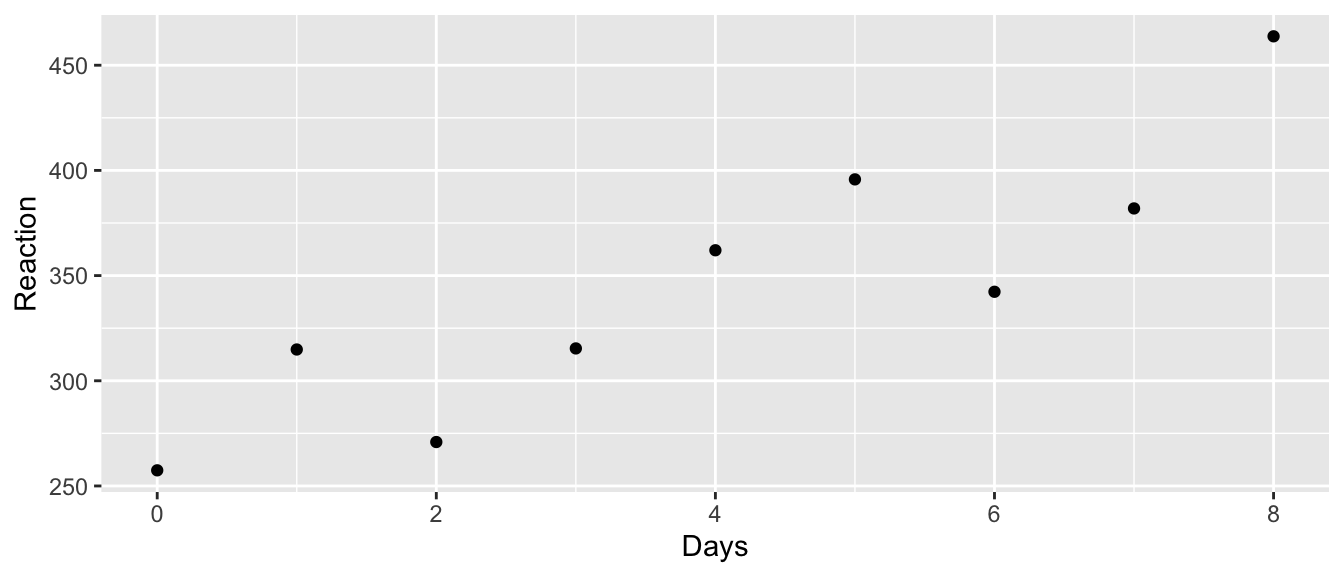
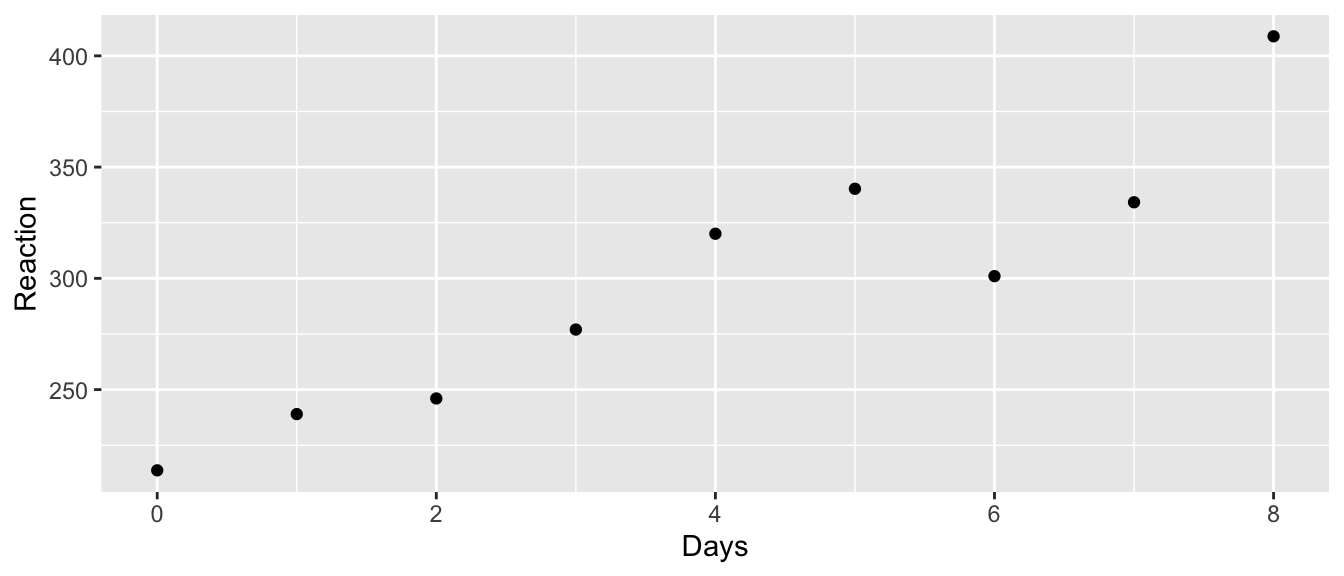
Updating the boostrap code for mixed models.

diff --git a/docs/11-mixed-effects-models.html b/docs/11-mixed-effects-models.html
@@ -24,7 +24,7 @@
 <meta name="author" content="Derek L. Sonderegger" />
 
 
-<meta name="date" content="2019-11-19" />
+<meta name="date" content="2019-11-21" />
 
   <meta name="viewport" content="width=device-width, initial-scale=1" />
   <meta name="apple-mobile-web-app-capable" content="yes" />
@@ -1169,18 +1169,32 @@ and we notice that the position and run effects are not nested within anything e
 <div id="confidence-and-prediction-intervals" class="section level2">
 <h2><span class="header-section-number">11.7</span> Confidence and Prediction Intervals</h2>
 <p>As with the standard linear model, we often want to create confidence and prediction intervals for a new observation or set of observations. Unfortunately, there isn’t a nice way to easily incorporate the uncertainty of the variance components. Instead we have to rely on bootstapping techniques to produce these quantities. Fortunately the <code>lme4</code> package provides a function that will handle most of the looping required, but we have to describe to the program how to create the bootstrap samples, and given a bootstrap sample, what statistics do we want to produce intervals for.</p>
-<p>Typically the bootstrap is used when we don’t want to make any distributional assumptions on the data. In that case, we sample with replacement from the observed data to create the bootstrap data. But, if we don’t mind making distributional assumptions, then instead of resampling the data, we could sample from the distribution with the observed parameter. In our sleep study example, we have estimated a population intercept and slope of <span class="math inline">\(251.4\)</span> and <span class="math inline">\(10.5\)</span>. But we also have a subject intercept and slope random effect which we assumed to be normally distributed centered at zero with and with estimated standard deviations of <span class="math inline">\(24.7\)</span> and <span class="math inline">\(5.9\)</span>. Then given a subjects regression line, observations are just normal (mean zero, standard deviation <span class="math inline">\(25.6\)</span>) perturbations from the line. All of these numbers came from the <code>summary(m2)</code> output.</p>
+<p>Recall that the steps of a bootstrap procedure are:</p>
+<ol style="list-style-type: decimal">
+<li>Generate a bootstrap sample.</li>
+<li>Fit a model to that bootstrap sample.</li>
+<li><em>From that model, calculate some statistic(s) you care about. This is the only step that the user needs do any work to specify.</em></li>
+<li>Repeat steps 1-3, many times, generating a bootstrap distribution of the statistics you care about.</li>
+<li>From the bootstrap distribution generate confidence intervals for the value of interest.</li>
+</ol>
+<p>Typically the bootstrap is used when we don’t want to make any distributional assumptions on the data. In that case, we sample with replacement from the observed data to create the bootstrap data. But, if we don’t mind making distributional assumptions, then instead of re-sampling the data, we could sample from the distribution with the observed parameter. In our sleep study example, we have estimated a population intercept and slope of <span class="math inline">\(251.4\)</span> and <span class="math inline">\(10.5\)</span>. But we also have a subject intercept and slope random effect which we assumed to be normally distributed centered at zero with and with estimated standard deviations of <span class="math inline">\(24.7\)</span> and <span class="math inline">\(5.9\)</span>. Then given a subjects regression line, observations are just normal (mean zero, standard deviation <span class="math inline">\(25.6\)</span>) perturbations from the line. All of these numbers came from the <code>summary(m2)</code> output.</p>
 <p>To create a bootstrap data simulating a new subject, we could do the following:</p>
 <div class="sourceCode" id="cb90"><pre class="sourceCode r"><code class="sourceCode r"><a class="sourceLine" id="cb90-1" data-line-number="1">subject.intercept =<span class="st"> </span><span class="fl">251.4</span> <span class="op">+</span><span class="st"> </span><span class="kw">rnorm</span>( <span class="dv">1</span>, <span class="dt">mean =</span> <span class="dv">0</span>, <span class="dt">sd=</span><span class="fl">24.7</span>)</a>
 <a class="sourceLine" id="cb90-2" data-line-number="2">subject.slope     =<span class="st"> </span><span class="fl">10.5</span>  <span class="op">+</span><span class="st"> </span><span class="kw">rnorm</span>( <span class="dv">1</span>, <span class="dt">mean =</span> <span class="dv">0</span>, <span class="dt">sd=</span><span class="fl">10.5</span>)</a>
 <a class="sourceLine" id="cb90-3" data-line-number="3"><span class="kw">c</span>(subject.intercept, subject.slope)</a></code></pre></div>
-<pre><code>## [1] 288.86733  17.14242</code></pre>
+<pre><code>## [1] 227.80606  17.68275</code></pre>
 <div class="sourceCode" id="cb92"><pre class="sourceCode r"><code class="sourceCode r"><a class="sourceLine" id="cb92-1" data-line-number="1">subject.obs &lt;-<span class="st"> </span><span class="kw">data.frame</span>(<span class="dt">Days =</span> <span class="dv">0</span><span class="op">:</span><span class="dv">8</span>) <span class="op">%&gt;%</span></a>
 <a class="sourceLine" id="cb92-2" data-line-number="2"><span class="st">  </span><span class="kw">mutate</span>( <span class="dt">Reaction =</span> subject.intercept <span class="op">+</span><span class="st"> </span>subject.slope<span class="op">*</span>Days <span class="op">+</span><span class="st"> </span><span class="kw">rnorm</span>(<span class="dv">9</span>, <span class="dt">sd=</span><span class="fl">25.6</span>) )</a>
 <a class="sourceLine" id="cb92-3" data-line-number="3"></a>
 <a class="sourceLine" id="cb92-4" data-line-number="4"><span class="kw">ggplot</span>(subject.obs, <span class="kw">aes</span>(<span class="dt">x=</span>Days, <span class="dt">y=</span>Reaction)) <span class="op">+</span><span class="st"> </span><span class="kw">geom_point</span>()</a></code></pre></div>
 <p><img src="Statistical-Methods-II_files/figure-html/unnamed-chunk-54-1.png" width="672" /></p>
-<p>This approach is commonly referred to as a “parametric” bootstrap because we are making some assumptions about the parameter distributions, whereas in a “nonparametric” bootstrap we don’t make any distributional assumptions. By default, the <code>bootMer</code> function will perform a parametric bootstrap to create new bootstrap datasets and then analyze them using the same model you origally created.</p>
+<p>This approach is commonly referred to as a “parametric” bootstrap because we are making some assumptions about the parameter distributions, whereas in a “non-parametric” bootstrap we don’t make any distributional assumptions. By default, the <code>bootMer</code> function will</p>
+<ol style="list-style-type: decimal">
+<li>Perform a parametric bootstrap to create new bootstrap data sets, using the results of the initial model.</li>
+<li>Create a bootstrap model by analyzing the bootstrap data using the same model formula used by the initial model.</li>
+<li>Apply some function you write to each bootstrap model. This function takes in a bootstrap model and returns a statistic or vector of statistics.</li>
+<li>Repeat steps 1-4 repeatedly to create the bootstrap distribution of the statistics returned by your function.</li>
+</ol>
 <div id="confidence-intervals" class="section level3">
 <h3><span class="header-section-number">11.7.1</span> Confidence Intervals</h3>
 <p>Now that we have a bootstrap data set, we need to take the data and then fit a model to the data and then grab the predictions from the model. At this point we are creating a confidence interval for the response line of a randomly selected person from the population. The <code>lme4::bootMer</code> function will create bootstrap data sets and then send those into the <code>lmer</code> function.</p>
@@ -1191,8 +1205,8 @@ and we notice that the position and run effects are not nested within anything e
 <a class="sourceLine" id="cb93-5" data-line-number="5"><span class="st">  </span><span class="kw">mutate</span>( <span class="dt">Estimate =</span> <span class="kw">predict</span>( m2, <span class="dt">newdata =</span> ConfData, <span class="dt">re.form=</span><span class="op">~</span><span class="dv">0</span>) )</a>
 <a class="sourceLine" id="cb93-6" data-line-number="6"></a>
 <a class="sourceLine" id="cb93-7" data-line-number="7"><span class="co"># A function to generate yhat from a model</span></a>
-<a class="sourceLine" id="cb93-8" data-line-number="8">myStats &lt;-<span class="st"> </span><span class="cf">function</span>(model){</a>
-<a class="sourceLine" id="cb93-9" data-line-number="9">  out &lt;-<span class="st"> </span><span class="kw">predict</span>( model, <span class="dt">newdata=</span>ConfData, <span class="dt">re.form=</span><span class="op">~</span><span class="dv">0</span> )</a>
+<a class="sourceLine" id="cb93-8" data-line-number="8">myStats &lt;-<span class="st"> </span><span class="cf">function</span>(model.star){</a>
+<a class="sourceLine" id="cb93-9" data-line-number="9">  out &lt;-<span class="st"> </span><span class="kw">predict</span>( model.star, <span class="dt">newdata=</span>ConfData, <span class="dt">re.form=</span><span class="op">~</span><span class="dv">0</span> )</a>
 <a class="sourceLine" id="cb93-10" data-line-number="10">  <span class="kw">return</span>(out)</a>
 <a class="sourceLine" id="cb93-11" data-line-number="11">}</a>
 <a class="sourceLine" id="cb93-12" data-line-number="12"></a>
